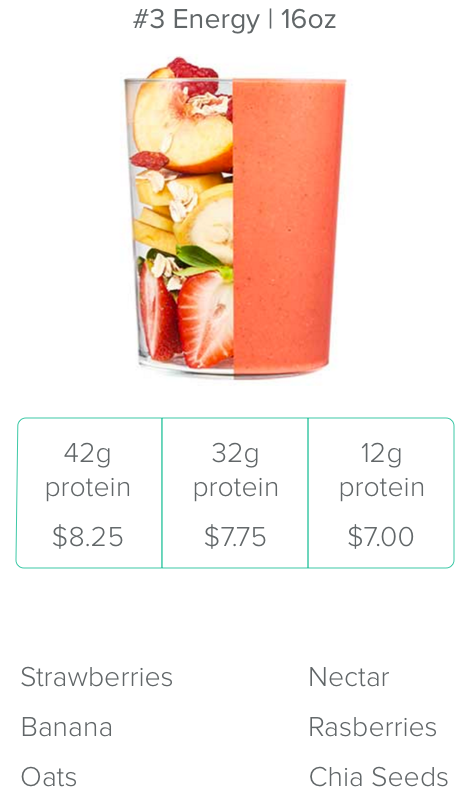
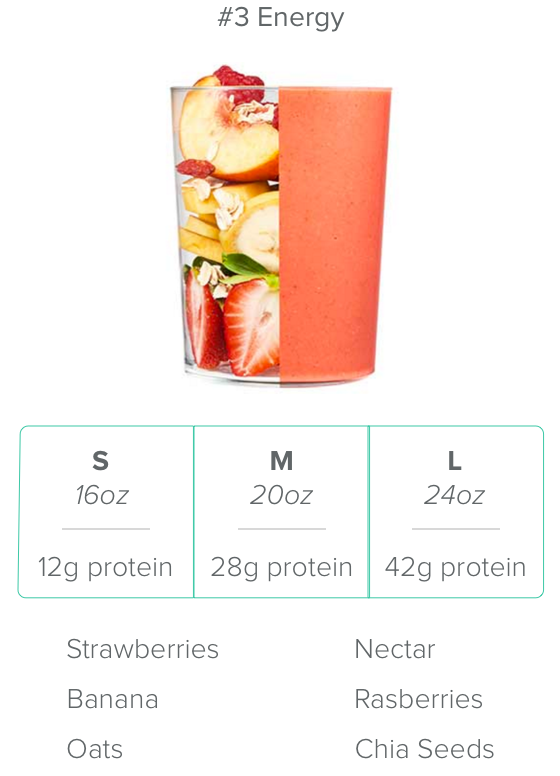
Change menu

diff --git a/css/main.min.css b/css/main.min.css
@@ -1,1 +1,1 @@
-html{font-family:sans-serif;-ms-text-size-adjust:100%;-webkit-text-size-adjust:100%;font-size:10px}/*! normalize.css v3.0.3 | MIT License | github.com/necolas/normalize.css */body{margin:0}article,aside,details,figcaption,figure,footer,header,hgroup,main,menu,nav,section,summary{display:block}audio,canvas,progress,video{display:inline-block;vertical-align:baseline}audio:not([controls]){display:none;height:0}[hidden],template{display:none}a{background-color:transparent}a:active,a:hover{outline:0}abbr[title]{border-bottom:1px dotted}b,strong{font-weight:bold}dfn{font-style:italic}h1{margin:0;font-size:2.618rem}h2{margin:0;font-size:1.618rem}p{font-size:1rem}mark{background:#ff0;color:#000}small{font-size:80%}sub,sup{font-size:75%;line-height:0;position:relative;vertical-align:baseline}sup{top:-0.5em}sub{bottom:-0.25em}img{border:0}svg:not(:root){overflow:hidden}figure{margin:1em 40px}hr{box-sizing:content-box;height:0}pre{overflow:auto}code,kbd,pre,samp{font-family:monospace, monospace;font-size:1em}button,input,optgroup,select,textarea{color:inherit;font:inherit;margin:0}button{overflow:visible}button,select{text-transform:none}button,html input[type="button"],input[type="reset"],input[type="submit"]{-webkit-appearance:button;cursor:pointer}button[disabled],html input[disabled]{cursor:default}button::-moz-focus-inner,input::-moz-focus-inner{border:0;padding:0}input{line-height:normal}input[type="checkbox"],input[type="radio"]{box-sizing:border-box;padding:0}input[type="number"]::-webkit-inner-spin-button,input[type="number"]::-webkit-outer-spin-button{height:auto}input[type="search"]{-webkit-appearance:textfield;box-sizing:content-box}input[type="search"]::-webkit-search-cancel-button,input[type="search"]::-webkit-search-decoration{-webkit-appearance:none}fieldset{border:1px solid #c0c0c0;margin:0 2px;padding:0.35em 0.625em 0.75em}legend{border:0;padding:0}textarea{overflow:auto}optgroup{font-weight:bold}table{border-collapse:collapse;border-spacing:0}td,th{padding:0}.margin-auto,.line-break,.menu-container,.menu-image,.square-logo,.payment-instructions,.square-image{margin:0 auto}@font-face{font-family:"Proxima-Light";src:url("../fonts/proxima-nova-light.ttf") format("truetype")}@font-face{font-family:"Proxima-Bold";src:url("../fonts/proxima-nova-bold.otf")}@font-face{font-family:"Proxima-Light-Italic";src:url("../fonts/proxima-nova-light-italic.otf")}body{font:100% "Proxima-Light"}body{background:#FCFCFC}.header-logo{width:45%;display:block;margin:3.2rem auto 3.2rem auto}.line-break{border-bottom:1px solid #D8D8D8;width:35%}.header-text{font-size:1.895rem;text-align:center;width:69.86%;line-height:2.653rem;margin:3.2rem auto 1.6rem auto;color:#616668}.header-subtext{font-size:1.422rem;text-align:center;width:49.6%;line-height:2rem;margin:0 auto 3.2rem auto;color:#616668}.menu-header{width:45.87%;font-size:1.895rem;text-align:center;margin:3.2rem auto 1.6rem auto;color:#616668}.menu-subheader{width:47%;font-size:1.422rem;text-align:center;margin:0 auto 1.6rem auto;color:#616668}.menu-container{width:91.47%;height:468px;padding:1.6rem 0 3.2rem 0;border-radius:0.5rem;background:#FFF;-webkit-box-shadow:0 0 1px 0 #616668;-moz-box-shadow:0 0 1px 0 #616668;box-shadow:0 0 1px 0 #616668}.menu-image{position:relative !important;width:70%;display:block}@media (min-width: 380px){.menu-image{width:65%}}@media (max-width: 330px){.menu-image{width:82%}}@media (min-width: 410px){.menu-image{width:60%}}.slick-dots{bottom:-50px !important}@media (max-width: 330px){.slick-dots{bottom:-60px !important}}.slick-dots li.slick-active button:before{opacity:.75;color:#3EC9A7 !important}.number{width:91.47%;height:65px;border-radius:0.5rem;font-size:1.895rem;line-height:65px;text-align:center;margin:3.2rem auto 3.2rem auto;background-color:#3EC9A7;box-shadow:0 0.15rem 0.05rem #2E947B}.number a{text-decoration:none;color:#FFF}.number a:visited{color:inherit}.square-logo{display:block}.footer-container{margin-bottom:3.2rem}.footer-text{font-size:1.422rem;text-align:center}.footer-text .1{padding:1.6rem 0 .8rem 0}.footer-text .2{padding-bottom:.8rem}.footer-text .3{padding:.8rem 0 3.2rem 0}.slick-prev:before,.slick-next:before{color:#3EC9A7 !important}.slick-prev{left:8px !important;z-index:1000}.slick-next{right:8px !important}.payment-instructions{font-size:1.422rem;text-align:center;color:#616668;line-height:2rem;width:49.6%;margin-bottom:1.6rem}.square-image{width:65%;display:block;margin-bottom:3.2rem}
+html{font-family:sans-serif;-ms-text-size-adjust:100%;-webkit-text-size-adjust:100%;font-size:10px}/*! normalize.css v3.0.3 | MIT License | github.com/necolas/normalize.css */body{margin:0}article,aside,details,figcaption,figure,footer,header,hgroup,main,menu,nav,section,summary{display:block}audio,canvas,progress,video{display:inline-block;vertical-align:baseline}audio:not([controls]){display:none;height:0}[hidden],template{display:none}a{background-color:transparent}a:active,a:hover{outline:0}abbr[title]{border-bottom:1px dotted}b,strong{font-weight:bold}dfn{font-style:italic}h1{margin:0;font-size:2.618rem}h2{margin:0;font-size:1.618rem}p{font-size:1rem}mark{background:#ff0;color:#000}small{font-size:80%}sub,sup{font-size:75%;line-height:0;position:relative;vertical-align:baseline}sup{top:-0.5em}sub{bottom:-0.25em}img{border:0}svg:not(:root){overflow:hidden}figure{margin:1em 40px}hr{box-sizing:content-box;height:0}pre{overflow:auto}code,kbd,pre,samp{font-family:monospace, monospace;font-size:1em}button,input,optgroup,select,textarea{color:inherit;font:inherit;margin:0}button{overflow:visible}button,select{text-transform:none}button,html input[type="button"],input[type="reset"],input[type="submit"]{-webkit-appearance:button;cursor:pointer}button[disabled],html input[disabled]{cursor:default}button::-moz-focus-inner,input::-moz-focus-inner{border:0;padding:0}input{line-height:normal}input[type="checkbox"],input[type="radio"]{box-sizing:border-box;padding:0}input[type="number"]::-webkit-inner-spin-button,input[type="number"]::-webkit-outer-spin-button{height:auto}input[type="search"]{-webkit-appearance:textfield;box-sizing:content-box}input[type="search"]::-webkit-search-cancel-button,input[type="search"]::-webkit-search-decoration{-webkit-appearance:none}fieldset{border:1px solid #c0c0c0;margin:0 2px;padding:0.35em 0.625em 0.75em}legend{border:0;padding:0}textarea{overflow:auto}optgroup{font-weight:bold}table{border-collapse:collapse;border-spacing:0}td,th{padding:0}.margin-auto,.line-break,.menu-container,.menu-image,.square-logo,.payment-instructions,.square-image{margin:0 auto}@font-face{font-family:"Proxima-Light";src:url("../fonts/proxima-nova-light.ttf") format("truetype")}@font-face{font-family:"Proxima-Bold";src:url("../fonts/proxima-nova-bold.otf")}@font-face{font-family:"Proxima-Light-Italic";src:url("../fonts/proxima-nova-light-italic.otf")}body{font:100% "Proxima-Light"}body{background:#FCFCFC}.header-logo{width:45%;display:block;margin:3.2rem auto 3.2rem auto}.line-break{border-bottom:1px solid #D8D8D8;width:35%}.header-text{font-size:1.895rem;text-align:center;width:69.86%;line-height:2.653rem;margin:3.2rem auto 1.6rem auto;color:#616668}.header-subtext{font-size:1.422rem;text-align:center;width:49.6%;line-height:2rem;margin:0 auto 3.2rem auto;color:#616668}.menu-header{width:45.87%;font-size:1.895rem;text-align:center;margin:3.2rem auto 1.6rem auto;color:#616668}.menu-subheader{width:47%;font-size:1.422rem;text-align:center;margin:0 auto 1.6rem auto;color:#616668}.menu-container{width:91.47%;height:468px;padding:1.6rem 0 3.2rem 0;border-radius:0.5rem;background:#FFF;-webkit-box-shadow:0 0 1px 0 #616668;-moz-box-shadow:0 0 1px 0 #616668;box-shadow:0 0 1px 0 #616668}.menu-image{position:relative !important;width:90%;display:block}@media (min-width: 380px){.menu-image{width:85%}}@media (max-width: 330px){.menu-image{width:92%}}@media (min-width: 410px){.menu-image{width:80%}}.slick-dots{bottom:-40px !important}@media (max-width: 330px){.slick-dots{bottom:-60px !important}}.slick-dots li.slick-active button:before{opacity:.75;color:#3EC9A7 !important}.number{width:91.47%;height:65px;border-radius:0.5rem;font-size:1.895rem;line-height:65px;text-align:center;margin:3.2rem auto 3.2rem auto;background-color:#3EC9A7;box-shadow:0 0.15rem 0.05rem #2E947B}.number a{text-decoration:none;color:#FFF}.number a:visited{color:inherit}.square-logo{display:block}.footer-container{margin-bottom:3.2rem}.footer-text{font-size:1.422rem;text-align:center}.footer-text .1{padding:1.6rem 0 .8rem 0}.footer-text .2{padding-bottom:.8rem}.footer-text .3{padding:.8rem 0 3.2rem 0}.slick-prev:before,.slick-next:before{color:#3EC9A7 !important}.slick-prev{left:8px !important;z-index:1000}.slick-next{right:8px !important}.payment-instructions{font-size:1.422rem;text-align:center;color:#616668;line-height:2rem;width:49.6%;margin-bottom:1.6rem}.square-image{width:65%;display:block;margin-bottom:3.2rem}

diff --git a/css/base/layout.sass b/css/base/layout.sass
@@ -57,18 +57,18 @@ body
 
 .menu-image
   position: relative !important
-  width: 70%
+  width: 90%
   display: block
   @extend .margin-auto
   @media (min-width: 380px)
-    width: 65%
+    width: 85%
   @media (max-width: 330px)
-    width: 82%
+    width: 92%
   @media (min-width: 410px)
-    width: 60%
+    width: 80%
   
 .slick-dots
-  bottom: -50px !important
+  bottom: -40px !important
   @media (max-width: 330px)
     bottom: -60px !important
 
